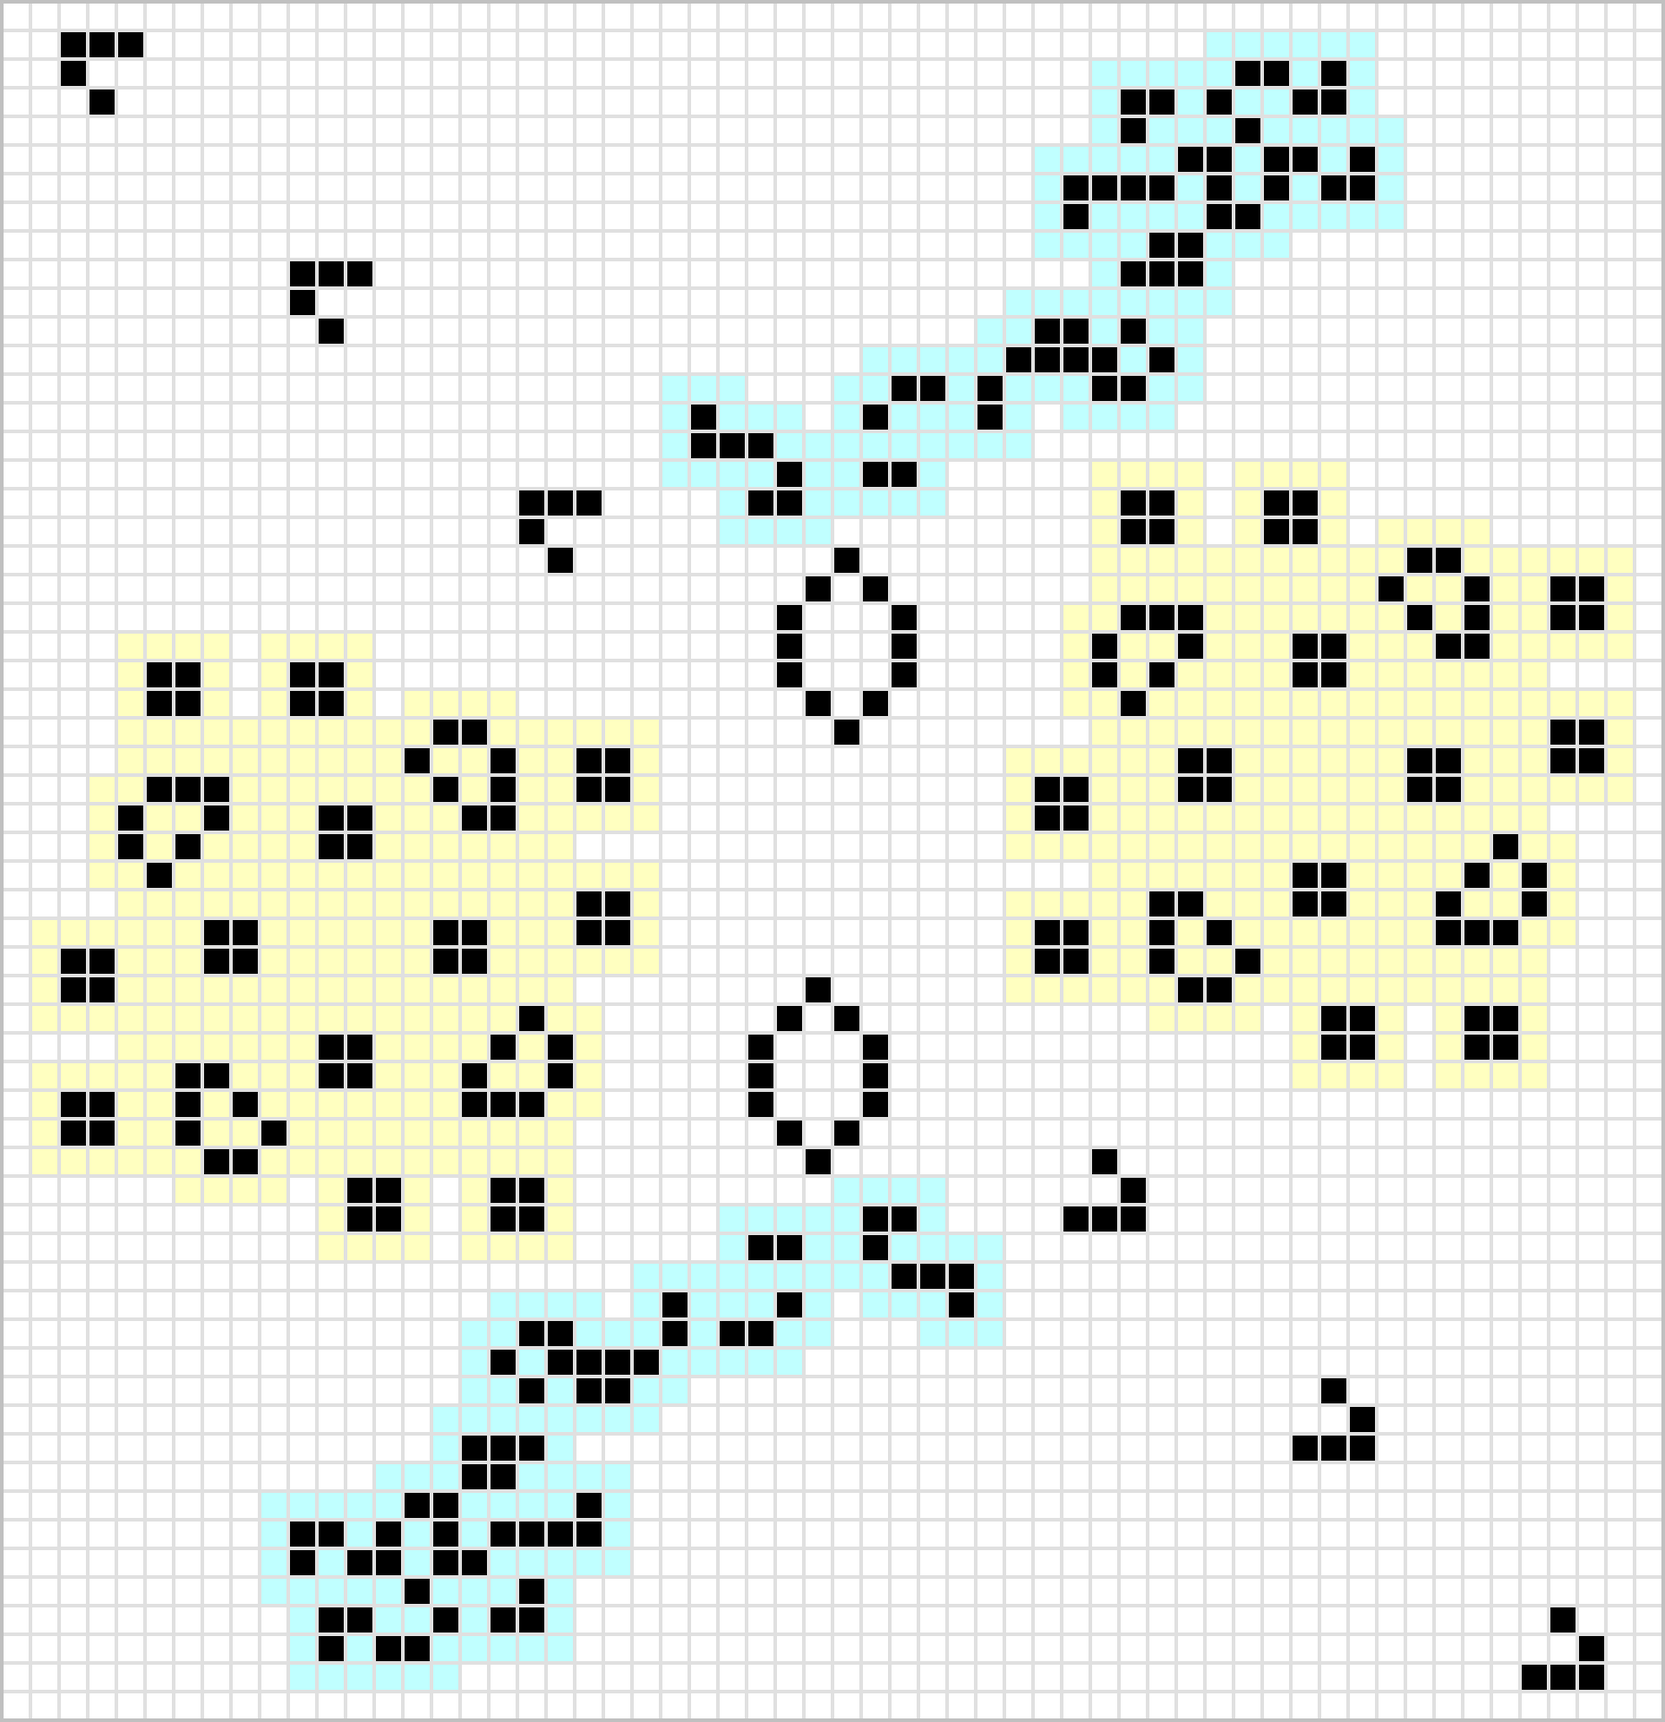
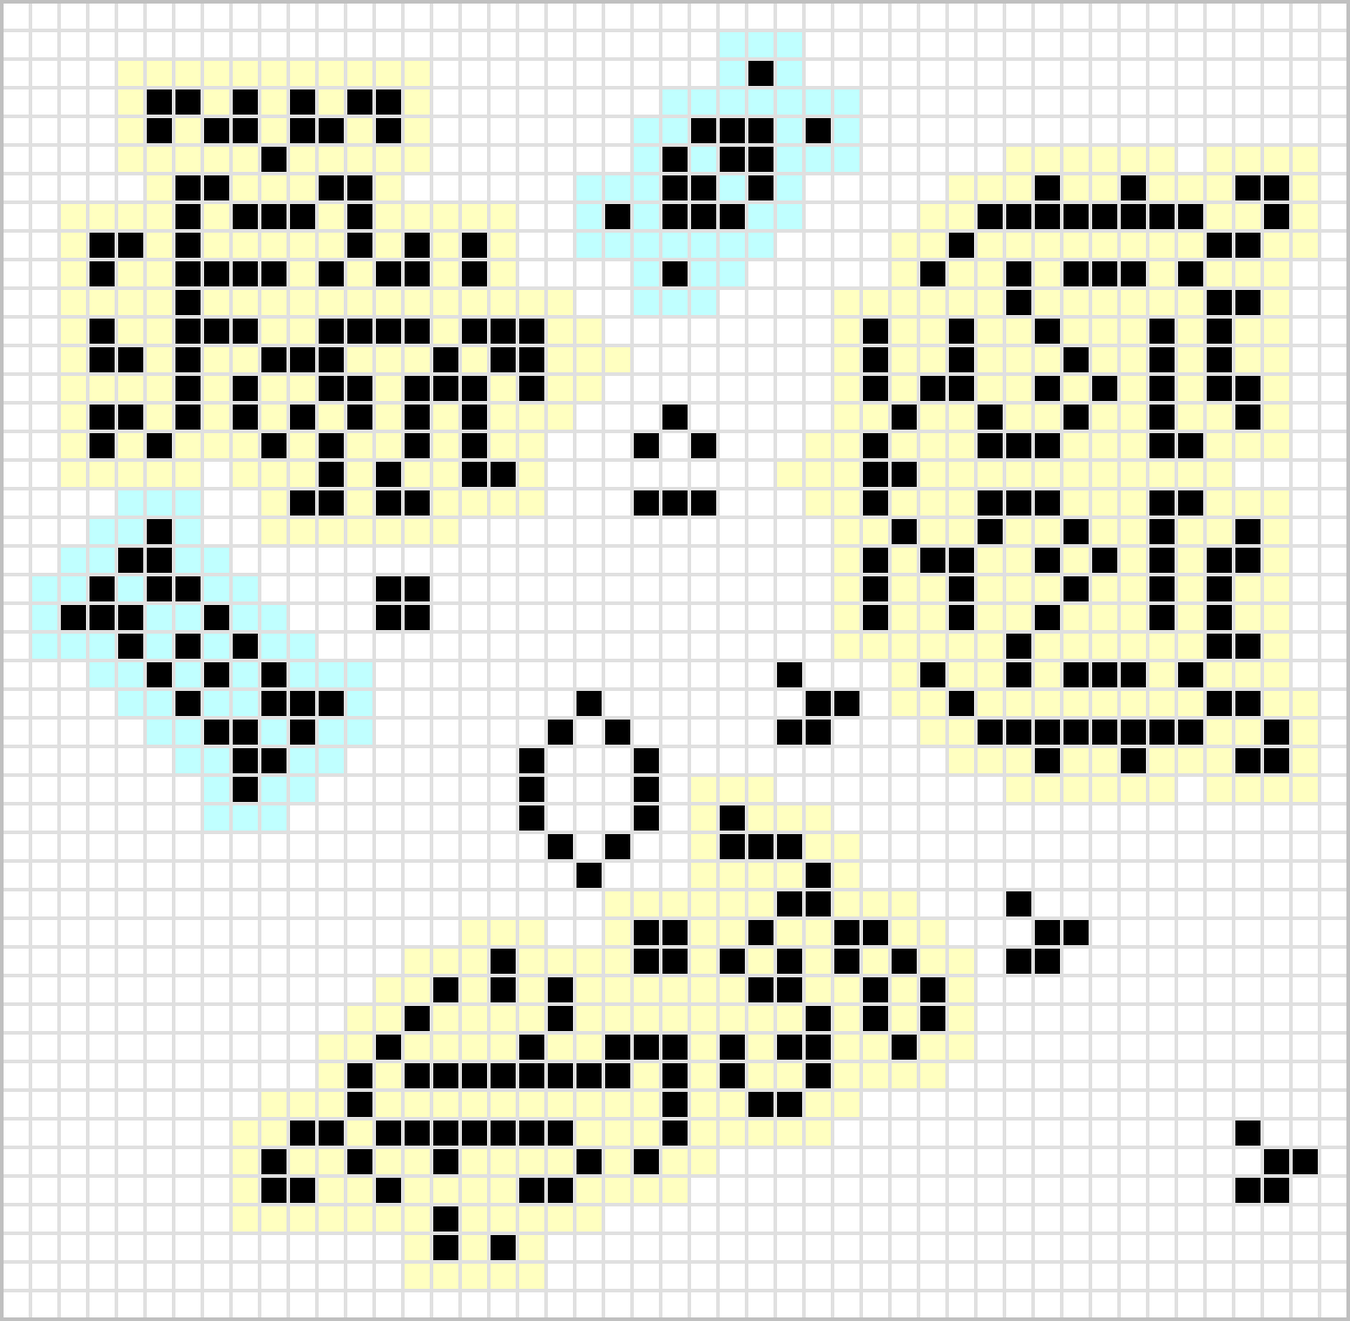
Matthias Ch8 fixes

diff --git a/glider_guns.tex b/glider_guns.tex
@@ -13,7 +13,7 @@
 \vspace*{0.4in}
 
 
-\noindent We have seen that being able to efficiently create and manipulate streams of gliders is extremely important when constructing complex objects in Life, since we can use collisions between those gliders to synthesize other objects. However, so far we have only seen how to create glider streams with a few different spacings: the period~30 stream produced by the Gosper glider gun (Section~\ref{sec:queen_bee}), the period~46 stream produced by the twin bees gun (Section~\ref{sec:twin_bees}), and the streams of period~61 and higher than we can construct via the Herschel tracks of Sections~\ref{sec:herschel_track} and~\ref{sec:conduits}. In this chapter, we look at how to construct glider guns that create gliders of any spacing and almost any positioning that we like.
+\noindent We have seen that being able to efficiently create and manipulate streams of gliders is extremely important when constructing complex objects in Life since we can use collisions between those gliders to synthesize other objects. However, so far we have only seen how to create glider streams with a few different spacings: the period~30 stream produced by the Gosper glider gun (Section~\ref{sec:queen_bee}), the period~46 stream produced by the twin bees gun (Section~\ref{sec:twin_bees}), and the streams of period~62 and higher than we can construct via the Herschel tracks of Sections~\ref{sec:herschel_track} and~\ref{sec:conduits}. In this chapter, we look at how to construct glider guns that create gliders of any spacing and almost any positioning that we like.
 
 %%%%%%%%%%%%%%%%%%%%%%%%%%%%%%%%%%%%%%%%%%%%%%%%%%%%%%%%%%%%%%%%%%%%%%%%%
 %%   SECTION: GLIDER DELETION
@@ -47,10 +47,10 @@ By iterating this procedure, we can repeatedly double the period of a glider str
 		\caption{A period~$92$ gun that uses two twin bees guns.}
 		\label{fig:p92_gun}
 	\end{subfigure}
-	\caption{We can use two copies of any gun with period at least $29$ to create a gun with double the period. This is demonstrated in (a) with two period~$30$ Gosper glider guns creating a period~$60$ gun, and (b) two period~$46$ twin bees guns creating a period~$92$ gun. In each case, the individual guns are outlined in \bgbox{aquaback}{aqua}, gliders that collide to create a block are outlined in \bgbox{yellowback2}{yellow}, and gliders to survive to create the new, thinner glider stream travelling to the southeast are outlined in \bgbox{greenpastel}{green}.}\label{fig:guns_doubled_period}
+	\caption{We can use two copies of any gun with period at least $29$ to create a gun with double the period. This is demonstrated in (a) with two period~$30$ Gosper glider guns creating a period~$60$ gun, and (b) two period~$46$ twin bees guns creating a period~$92$ gun. In each case, the individual guns are outlined in \bgbox{yellowback2}{yellow}, gliders that collide to create a block are outlined in \bgbox{aquaback}{aqua}, and gliders that survive to create the new, thinner glider stream travelling to the southeast are outlined in \bgbox{greenpastel}{green}.}\label{fig:guns_doubled_period}
 \end{figure}
 
-The way that this period tripler works is largely the same as it was from the period-doubling collision from Figure~\ref{fig:glider_delete}, only slightly more complicated:\smallskip
+The way that this period tripler works is largely the same as it was for the period-doubling collision from Figure~\ref{fig:glider_delete}, only slightly more complicated:\smallskip
 
 \begin{itemize}
 	\item When the first gliders in the streams collide, they leave behind a pair of blocks.\smallskip
@@ -276,7 +276,7 @@ One particularly cheap way of creating lightweight and middleweight spaceships i
 
 To create a reasonably small lightweight or middleweight spaceship gun of a large period, we can now simply attach this mechanism to the output of any sufficiently high-period glider gun of our choosing, with a syringe in between (as well as other Herschel conduits, as needed, for spacing reasons). For example, the gun in Figure~\ref{fig:p84_lwss_gun_adjustable} uses this technique to fire a period~$84$ stream of lightweight spaceships.
 
-However, since this mechanism uses a stream of Herschels as input, we can often construct even smaller LWSS guns by feeding Herschel into it directly from a Herschel track, rather than feeding them in via a glider gun and a syringe. A slightly smaller period~$84$ LWSS gun that uses this technique is displayed in Figure~\ref{fig:p84_lwss_gun}.
+However, since this mechanism uses a stream of Herschels as input, we can often construct even smaller LWSS guns by feeding Herschels into it directly from a Herschel track, rather than feeding them in via a glider gun and a syringe. A slightly smaller period~$84$ LWSS gun that uses this technique is displayed in Figure~\ref{fig:p84_lwss_gun}.
 
 \begin{figure}[!htb]
 	\centering
@@ -292,9 +292,9 @@ However, since this mechanism uses a stream of Herschels as input, we can often 
 	\caption{Two p$84$ lightweight spaceship guns that make use of the Herschel-to-LWSS mechanism of Figure~\ref{fig:H_plus_G_to_WSS}(a) (highlighted in \bgbox{greenpastel}{green}). Syringes are highlighted in \bgbox{aquaback}{aqua} and Fx77 Herschel conduits (highlighted in \bgbox{magentaback}{magenta}) are used for spacing reasons.}\label{fig:p84_lwss_gun_both}
 \end{figure}
 
-We can also delete lightweight spaceships from a stream in much the same ways that we do with gliders. For example, a spark of pretty much any type can destroy a lightweight spaceship, so we can use sparky oscillators to filter (i.e., thin out) LWSS streams. Figure~\ref{fig:lwss_filters} illustrates to examples of how this technique can be used to double, or even triple, streams of certain periods. Another method of doubling the period of an LWSS stream, which has the advantage of working at any sufficiently large period, was presented in Exercise~\ref{exer:twin_primer}.
+We can also delete lightweight spaceships from a stream in much the same ways that we do with gliders. For example, a spark of pretty much any type can destroy a lightweight spaceship, so we can use sparky oscillators to filter (i.e., thin out) LWSS streams. Figure~\ref{fig:lwss_filters} illustrates some examples of how this technique can be used to double, or even triple, streams of certain periods. Another method of doubling the period of an LWSS stream, which has the advantage of working at any sufficiently large period, was presented in Exercise~\ref{exer:twin_primer}.
 
-Similarly, if we want to \emph{decrease} the period of an xWSS stream, we can perform insertion just like we did with gliders. One possible method of inserting an LWSS into a stream is to make use of one of the three-glider syntheses from Table~\ref{tab:3_glider_synth}. However, even the fastest and cleanest of these syntheses can only decrease the period of an LWSS stream down to $22$. Since the minimum possible periods of LWSS, MWSS, and HWSS streams are 14, 16, and 18, respectively, we would like a cleaner reaction that can produce these even tighter streams. The tightest known reaction of this type is displayed in Figure~\ref{fig:lwss_insertion_p18}. It uses a whopping $10$ gliders to carefully place a lightweight spaceship between two others that are $36$ generations apart, resulting in a p$18$ LWSS stream.
+Similarly, if we want to \emph{decrease} the period of an xWSS stream, we can perform insertions just like we did with gliders. One possible method of inserting an LWSS into a stream is to make use of one of the three-glider syntheses from Table~\ref{tab:3_glider_synth}. However, even the fastest and cleanest of these syntheses can only decrease the period of an LWSS stream down to $23$. Since the minimum possible periods of LWSS, MWSS, and HWSS streams are 14, 16, and 18, respectively, we would like a cleaner reaction that can produce these even tighter streams. The tightest known reaction of this type is displayed in Figure~\ref{fig:lwss_insertion_p18}. It uses a whopping $10$ gliders to carefully place a lightweight spaceship between two others that are $36$ generations apart, resulting in a p$18$ LWSS stream.
 
 Fortunately, we do not actually need to come up with new insertion mechanisms for streams of middleweight or heavyweight spaceships, since there are numerous ways of colliding spaceships with the back end of an LWSS so as to ``upgrade'' it to an MWSS, and there are similarly numerous ways of ``upgrading'' an MWSS to an HWSS. Some methods that work even with tightly packed period~18 xWSS streams are displayed in Figure~\ref{fig:xwss_upgrade}.\footnote{Much simpler methods are known for higher-period streams. See Exercise~\ref{exer:lwss_to_hwss_upgrade}, for example.}
 
@@ -351,7 +351,7 @@ We have already seen a few methods of constructing glider guns of any suitably l
 
 By making use of the glider insertion reaction of Figure~\ref{fig:lwss_squish}, we can now fill in this gap in our knowledge and construct glider guns of all periods~$14$ and greater---we just create a gun whose period is a suitably large multiple of the period that we actually want, and then repeatedly use multiple copies of this gun and the glider insertion reaction to fill in the gaps in its glider stream. For example, to create a period~$14$ gun, we could use Herschel tracks to construct a gun of period~$14 \times 5 = 70$ to create a p$70$ glider stream, and then use multiple copies of that gun to do glider insertion $4$ times between each pair of gliders in that stream.\footnote{The first period~14 glider gun was built by Dietrich Leithner in November 1994 using these same ideas (and the same glider insertion reaction).} However, the resulting p$14$ gun would be quite large---recall that creating a p$15$ gun required \emph{seven} p$30$ guns in Figure~\ref{fig:p15_gun}, and that was just to perform a single glider insertion.
 
-In order to construct a somewhat smaller p$14$ glider gun using these same ideas, we instead use a period~$14 \times 6 = 84$ stream as our starting point, so that we can make use of the syringe in our circuitry (recall that its repeat time is $78$~generations). It is straightforward to construct a period~$84$ glider gun using the adjustable-period gun of Figure~\ref{fig:p80_adjustable_gun}, for example,\footnote{In fact, we already did this in Figure~\ref{fig:p84_lwss_gun_both}.} but if we are slightly more clever then we can actually build a gun that places \emph{two} of the six gliders that we need to bring a p$84$ stream down to p$14$. In particular, if we use the NE30T3\index{NE30T3} H-to-2G edge-shooting conduit from Figure~\ref{fig:herschel_to_glider_edge_4}, we can reflect one of its output gliders so as to be on the same lane as the other one. Figure~\ref{fig:p14_pieces_p84} illustrates how to use this technique to construct a p$84$ gun that emits $2$ out of every $3$ gliders in a p$28$ stream (or equivalently, $2$ out of every $6$ gliders in a p$14$ stream).\footnote{By rearranging the reflectors in this gun slightly, its period can be adjusted relatively straightforwardly---see Exercise~\ref{exer:p28_adjust_29}.}
+In order to construct a somewhat smaller p$14$ glider gun using these same ideas, we instead use a period~$14 \times 6 = 84$ stream as our starting point, so that we can make use of the syringe in our circuitry (recall that its repeat time is $78$~generations). It is straightforward to construct a period~$84$ glider gun using the adjustable-period gun of Figure~\ref{fig:p80_adjustable_gun}, for example,\footnote{In fact, we already did this in Figure~\ref{fig:p84_lwss_gun_both}.} but if we are slightly more clever, then we can actually build a gun that places \emph{two} of the six gliders that we need to bring a p$84$ stream down to p$14$. In particular, if we use the NE30T3\index{NE30T3} H-to-2G edge-shooting conduit from Figure~\ref{fig:herschel_to_glider_edge_4}, we can reflect one of its output gliders so as to be on the same lane as the other one. Figure~\ref{fig:p14_pieces_p84} illustrates how to use this technique to construct a p$84$ gun that emits $2$ out of every $3$ gliders in a p$28$ stream (or equivalently, $2$ out of every $6$ gliders in a p$14$ stream).\footnote{By rearranging the reflectors in this gun slightly, its period can be adjusted relatively straightforwardly---see Exercise~\ref{exer:p28_adjust_29}.}
 
 \begin{figure}[!htb]
 	\centering
@@ -381,10 +381,10 @@ There is nothing inherently wrong with pseudo-period guns, but it seems natural 
 
 In general, using glider insertion to decrease the period of a gun's stream results in a pseudo-period gun, but using filters or the glider deletion methods of Section~\ref{sec:glider_deletion} to \emph{increase} the period of its glider stream results in a true-period gun (e.g., the p$60$ gun from Figure~\ref{fig:p60_gun} that uses two Gosper glider guns is a true-period gun). Constructing true-period guns with small period\footnote{Herschel tracks can be used to create true-period guns of large period (period~$62$ and larger, in particular).} is much more difficult than the same task for pseudo-period guns, since we cannot just manipulate gliders themselves to get the period we desire, but rather must actually develop new glider-generating mechanisms.
 
-There are just a few methods that are known for creating true-period glider guns, and it is typically difficult to get them to work for small periods. A brief summary of the known true-period guns of these few small periods is presented in Table~\ref{tab:true_period_glider_gun}, and the next few subsections illustrate and describe their construction.\footnote{Unfortunately, it probably will not be long before this list of true-period guns becomes out of date ($7$ new periods were discovered while this book was being written!), so a perhaps more up-to-date list of known true-period gun periods can be found at \httpsurl{conwaylife.com/wiki/Gun} and \httpsurl{conwaylife.com/wiki/LifeWiki:Game_of_Life_Status_page\#Glider_gun_true-periods}.}
+There are just a few methods that are known for creating true-period glider guns, and it is typically difficult to get them to work for small periods. A brief summary of the known true-period guns of these few small periods is presented in Table~\ref{tab:true_period_glider_gun}, and the next few subsections illustrate and describe their construction.\footnote{It probably will not be long before this list of true-period guns becomes out of date ($7$ new periods were discovered while this book was being written!), so a perhaps more up-to-date list of known true-period gun periods can be found at \httpsurl{conwaylife.com/wiki/Gun} and \httpsurl{conwaylife.com/wiki/LifeWiki:Game_of_Life_Status_page\#Glider_gun_true-periods}.}
 
 \begin{table}[!htbp]\vspace*{0.02in}
-	\begin{center}		
+	\begin{center}
 		\begin{tabular}{ccll}
 			\toprule
 			Period & Year & Original Discoverer & Example and Notes \\ \midrule
@@ -394,7 +394,7 @@ There are just a few methods that are known for creating true-period glider guns
 			\rowcolor{gray!20} 24, 48 & 1997 & Noam Elkies & upcoming Figure~\ref{fig:p24_glider_gun} \\
 			28 & 2020 & \specialcelll[t]{Matthias Merzenich \\ Paul Callahan} & upcoming Figure~\ref{fig:p28_glider_gun} \\
 			\rowcolor{gray!20} 30 & 1970 & Bill Gosper & Gosper glider gun (Figure~\ref{fig:gosper_glider_gun}) \\
-			32 & 2021 & \specialcelll[t]{Matthias Merzenich \\ David Raucci} & \specialcelll[t]{{\small$\bullet$} smallest known is in the upcoming Figure~\ref{fig:p32_glider_gun} \\ {\small$\bullet$} first known was found just a few days earlier} \\
+			32 & 2021 & \specialcelll[t]{Matthias Merzenich \\ David Raucci} & \specialcelll[t]{{\small$\bullet$} smallest known is in the upcoming Figure~\ref{fig:p32_glider_gun} \\ {\small$\bullet$} first known was found just one month earlier} \\
 			\rowcolor{gray!20} 33 & 2018 & \specialcelll[t]{Arie Paap \\ Matthias Merzenich} & upcoming Figure~\ref{fig:p33_gun} \\
 			36 & 2004 & Jason Summers & upcoming Figure~\ref{fig:p36_gun} \\
 			\rowcolor{gray!20} 40 & 2013 & \specialcelll[t]{Adam P. Goucher \\ Matthias Merzenich \\ Jason Summers} & \specialcelll[t]{{\small$\bullet$} smallest known (Figure~\ref{fig:p20_glider_gun}) uses a blocker to \\ \hphantom{\small$\bullet$} filter the p$20$ gun \\ {\small$\bullet$} first known (not displayed) was found $3$~months earlier} \\
@@ -500,19 +500,19 @@ By using the same T-tetromino collision, together with the p$20$ hassling reacti
 
 The only known true-period~$28$ glider gun is also based on hassling a T-tetromino, but this one uses components that we have not yet seen: a massive p7 ultrafountain,\footnote{Just like a fountain or volcano releases its spark one row of dead cells away from the oscillator itself, and a superfountain or supervolcano releases its spark two rows of dead cells away, an \emph{ultra}fountain provides three rows of dead cells of clearance between their spark and the oscillator itself.}\index{ultrafountain} as well as an eater~1 and another custom still life, which cause a single T-tetromino to release a glider. This gun is displayed in Figure~\ref{fig:p28_glider_gun}, and it can be turned into a true-period~$56$ gun by adding a filter to it (see Exercise~\ref{exer:p56_gun_smaller}).
 
-Pre-honey farm hasslers are similarly the only known method of constructing true-period~$32$ glider guns. The reaction at the core of the p$32$ oscillator from Figure~\ref{fig:p32_honey_farm} was used to construct the first such gun. A somewhat smaller gun of this same period, which uses a slightly different hassling reaction, is displayed in Figure~\ref{fig:p32_glider_gun}. Pre-honey farm hasslers were also used to create the smallest-known true-period $54$ and $55$ guns,\footnote{Constructed in September 2021 by David Raucci. See \httpsurl{conwaylife.com/wiki/Period-54_glider_gun} and \httpsurl{conwaylife.com/wiki/Period-55_glider_gun}.} but they are not displayed here (we use another method to construct somewhat larger guns of these periods in Section~\ref{sec:true_period_guns_p57} instead).
+Pre-honey farm hasslers are similarly the only known method of constructing true-period~$32$ glider guns. The reaction at the core of the p$32$ oscillator from Figure~\ref{fig:p32_honey_farm} was used to construct the first such gun, a smaller version of which is displayed in Figure~\ref{fig:p32_glider_gun}. Pre-honey farm hasslers were also used to create the smallest-known true-period $54$ and $55$ guns,\footnote{Constructed in September 2021 by David Raucci. See \httpsurl{conwaylife.com/wiki/Period-54_glider_gun} and \httpsurl{conwaylife.com/wiki/Period-55_glider_gun}.} but they are not displayed here (we use another method to construct somewhat larger guns of these periods in Section~\ref{sec:true_period_guns_p57} instead).
 
 \begin{figure}[!htb]
 	\centering
-	\begin{minipage}[t]{.575\textwidth}
+	\begin{minipage}[t]{.565\textwidth}
 		\centering
 		\patternimglink{0.089}{p28_glider_gun}
 		\caption{A true-period~$28$ glider gun that works by using a p7 ultrafountain (highlighted in \bgbox{yellowback2}{yellow}) to hassle a T-tetromino so that it releases a glider via a custom conduit (highlighted in \bgbox{aquaback}{aqua}). Constructed by Matthias Merzenich in December 2020.}\label{fig:p28_glider_gun}
 	\end{minipage} \hfill %
-	\begin{minipage}[t]{.395\textwidth}
+	\begin{minipage}[t]{.405\textwidth}
 		\centering
-		\patternimglink{0.089}{p32_glider_gun}
-		\caption{A true-period~$32$ glider gun that works by using a some p4 and p16 oscillators (highlighted in \bgbox{aquaback}{aqua} and \bgbox{yellowback2}{yellow}, respectively) to hassle a pair of pre-honey farms. Built by David Raucci in September 2021.}\label{fig:p32_glider_gun}
+		\patternimglink{0.11601355013}{p32_glider_gun}
+		\caption{A true-period~$32$ glider gun that works by using a some p4 and p8 oscillators (highlighted in \bgbox{yellowback2}{yellow} and \bgbox{aquaback}{aqua}, respectively) to hassle a pre-honey farm and a T-tetromino. Built by Martin Grant in October 2021.}\label{fig:p32_glider_gun}
 	\end{minipage}
 \end{figure}
 
